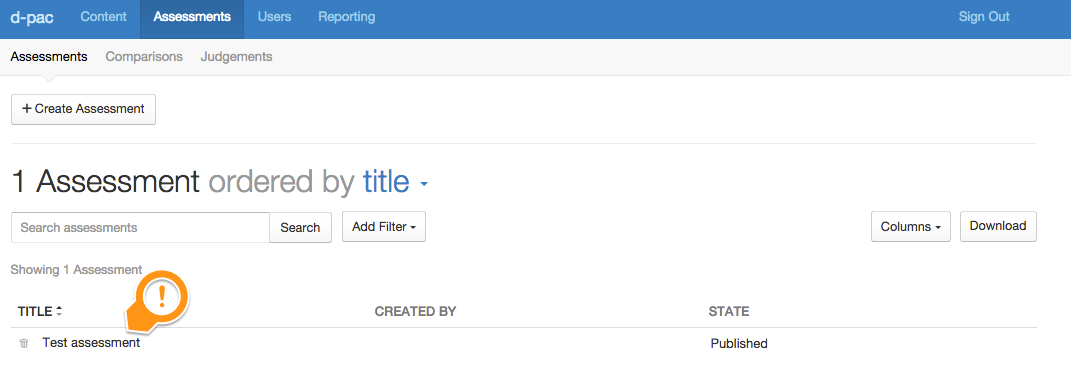
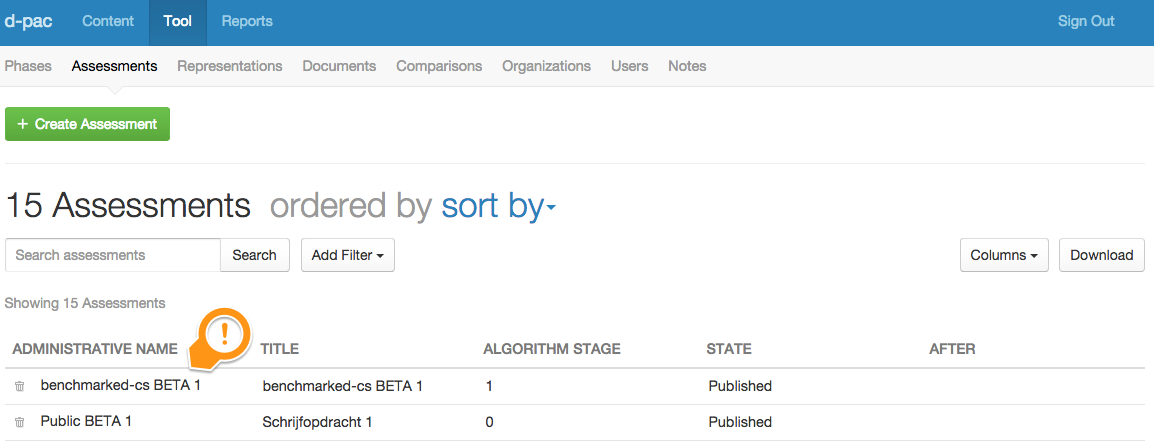
Update PAM guide

diff --git a/src/user/PAM-guide.md b/src/user/PAM-guide.md
@@ -6,7 +6,7 @@ Guide for assessment and user management through the backend.
 
 ### Overview
 
-* Clicking any of the secondary menu items will take you to an overview page of the selected item type. E.g. clicking `Assessments`>`Assessments`
+* Clicking any of the secondary menu items will take you to an overview page of the selected item type. E.g. clicking `Tool`>`Assessments`
 
   ![Menu](assets/menu.png)
 
@@ -41,7 +41,7 @@ Most interface elements are common in both outlook and behaviour, however there'
 
 ### Create Assessments
 
-1. Click on `Assessments`>`Assessments`>`Create Assessment`
+1. Click on `Tool`>`Assessments`>`Create Assessment`
 
   ![Creating assessments](assets/creating-assessments.png)
 
@@ -52,106 +52,113 @@ Most interface elements are common in both outlook and behaviour, however there'
 1. However, it's not over yet. This simply created the `Assessment`, but if you wish to fill in more of its fields, you'll have to do this in the `Assessment` editor:
 
   ![Assessment Editor](assets/assessment-editor.png)
+
+  * __Title__: This is the title as it will appear in the tool in various places:
+
+  	![Assessment title in tool](assets/assessment-tool-title.png)
+
+  * __Selection algorithm__: Please select which selection algorithm you wish to use.
   
-  * __Description__: Please fill out a clear and concise description of the assessment. This will appear in the tool as:
+  * __Assessor assignment__: Please fill out a clear and concise description of the assessor assignment. This will appear in the tool as:
     
-    ![Assessment description](assets/assessment-editor.png)  
+    ![Assessor assignment in tool](assets/assessment-tool-assessor-assignment.png)  
 
-  * __Phases__: These define the various steps the assessor will need to perform in one comparison. At the moment, all phases should be included, **in the exact same order as below**:
-  
-    ![Assessment phases](assets/assessment-phases.png)
+  * __Assessee assignment__: Please fill out a clear and concise description of the assessee assignment. This will appear in the tool as:
 
-  * __Comparisons Num__: Define the number of comparisons each assessor needs to make in an assessment.
+    ![Assessee assignment in tool](assets/assessment-tool-assessee-assignment.png)  
+
+  * __Workflow__: These define the various steps the assessor will need to perform in one comparison. 
+
+  * __Total number of comparisons__: Define the maximum number of comparisons.
+
+  * __Number of comparisons wanted per stage__: Define the maximum number of comparisons, per assessor, per stage.
+
   * __State__: By default an `Assessment` is in a "draft" state. This means that assessors **will not** be able to select this assessment for comparisons. It is useful to allow the PAM to create an assessment up-front and fill in the details over a period of time, without showing up in the assessment selection screen of the tool. **Select "published" once you're done with an assessment and want to enable it in the tool**:
+
+  * __After__: Allows you to setup a hierarchy of assessments. If you select another assessment in this field, the current assessment will only be shown to the assessors _after_ the selected assessment has been completed.
   
-    ![Assessesment states](assets/assessment-states.png)
+  * __Algorithm stage__: Specific algorithms need to maintain what stage they're in. Modify at your own risk!
 
-## Adding Assessees and their representations
+  * __Enable time logging__: toggles time logging for this assessment.
 
-### Create Organisations
+  * __UI Texts__: allos you to modify the texts as presented in the tool.
+
+
+## Adding Organisations
 
 First of all we need to make sure the necessary `Organisation`s are added:
 
-1. Click on `Users`>`Organisations`>`Create Organization`
+1. Click on `Tool`>`Organisations`>`Create Organization`
 
-  ![Creating organisations](assets/creating-organizations.png)
 
-1. This will allow you to create the organisation in-place
+1. Fill out the details
   
-  ![Creating an organisation: fill out details](assets/creating-organizations-details.png)
-
-1. Clicking the `Create`-button will take you to the `Organisation` editor. To create another `Organisation`, use the shortcut:
   
-### Creating Users
 
-Next we need to **create a `user` for _each_ assessee**:
+## Adding Assessors
 
-1. Click on `Users`>`Users`>`Create User`
+Next we need to **create a `user` for each assessor**:
 
-  ![Creating users](assets/creating-users.png)
-  
-1. Again, creating a `User` happens in-place:
+1. Click on `Tool`>`Users`>`Create User`
+
+1. Fill out the details:
  
-  ![Creating users: fill out details](assets/creating-users-details.png)
+  * __Name__: First and last name
 
-  All fields are mandatory, except for `Organization`. The e-mail address **has to be unique** in the database.
+  * __Organisation__: Select an organisation from the list or leave it blank.
+
+  * __Email__: Must be a valid e-mail address (but not necessarily an existing one)
+
+  * __Password__: Click 'Change password' and fill out the new password twice.
+
+  * __Assessments__: Add a user as an assessor to specific assessments; select any number of assessments you want from the list
+
+  * __Can access keystone__: This will grant the user administrative rights. **Do not tick this unless for team members!**
   
-1. Clicking the `Create`-button will take you to the `User` editor. To create another `User`, use the shortcut:
-
-  ![Create another user](assets/create-another-user.png)
-
-### Creating Personas
-
-Next we need to define what `role` a `user` has in an `assessment`. Any user can perform different roles in different assessments, hence we need to explicitly declare this.
-
-**Create a `persona` for _each_ assessee`**
-
-1. Click on `Users`>`Personas`>`Create Persona`
-
-  ![Creating personas](assets/creating-personas.png)
-  
-1. In-place provide the details:
-  
-  ![Creating Personas: fill out details](assets/creating-personas-details.png)
-
-  **All fields are mandatory**
-  
-1. Clicking the `Create`-button will take you to the `Persona` editor. To create another `Persona`, use the shortcut:
-
-  ![Create another Persona](assets/persona-editor.png)
-  
-### Creating Representations
+## Adding Representations
 
 Creating a `representation` for an assessee is a two-phased process:
 
-#### Create the `representation`
+### Create the `document`
 
-1. Click on `Users`>`Representations`>`Create Representation`
+1. Click on `Tool`>`Documents`>`Create Document`
  
-  ![Creating representations](assets/creating-representations.png)
-
-1. In-place link it to a `User` and `Assessment`:
+1. This opens a modal form :
  
-  ![Creating representations: fill out details](assets/creating-representations-details.png)
+  ![Creating documents](assets/documents-modal.png)
 
-#### Upload the file
+  * __Title__: Optional, you can give it a title, otherwise the filename will be used.
 
-> **PLEASE DO NOT FORGET THIS STEP**
+  * __Owner__: Optional, select the user that created the document or leave blank.
 
-1. Clicking the `Create`-button will take you to the `Representation` editor. Here we need to upload the representation file:
+  Clicking 'Create' creates the document, next you need to upload the file.
 
-  ![Upload the representation file](assets/upload-representation.png)
-  
-  Clicking `Upload` will open an operating system specific file browse dialog. E.g. on Mac OS X:
-  
-  ![OS-specific file browser](assets/file-browser.png)
+1. Documents can be 'local' (residing on "our" server) or 'remote' (residing some place else), click "upload file" to select a file from your hard disk.
 
-1. Select the file on your file system you wish to upload and click `open` (or a similar button, depending on your operating system)
+1. Or, paste a URL in "External file" to use a "remote" file.
 
-1. This will take you back to the `Representation` editor. **We still need to confirm the upload of the file by clicking the `Save`-button!!**:
+### Create the `representation`
 
-  ![Upload the file](assets/save-representation.png)
-  
-1. To create another `Representation`, use the shortcut:
+A representation is the link between a document and an assessment. (I.e. a single document can be used in multiple assessments.)
 
-  ![Create another representation](assets/create-another-representation.png)
+1. Click on `Tool`>`Representations`>`Create Representation`
+ 
+1. This opens a modal form :
+ 
+  ![Creating representations](assets/representations-modal.png)
+
+  * __Assessment__: Select the assessment you want to link the document to.
+
+  * __Document__: Select the document you want to use in the assessment.
+
+  Clicking 'Create' creates the representation.
+
+1. Next you might need to fill out some details, depending on the algorithm you chose:
+
+  * __Ability value__
+
+  * __Ability SE__
+
+  * __Rank type__
+
+  * __Close to__
